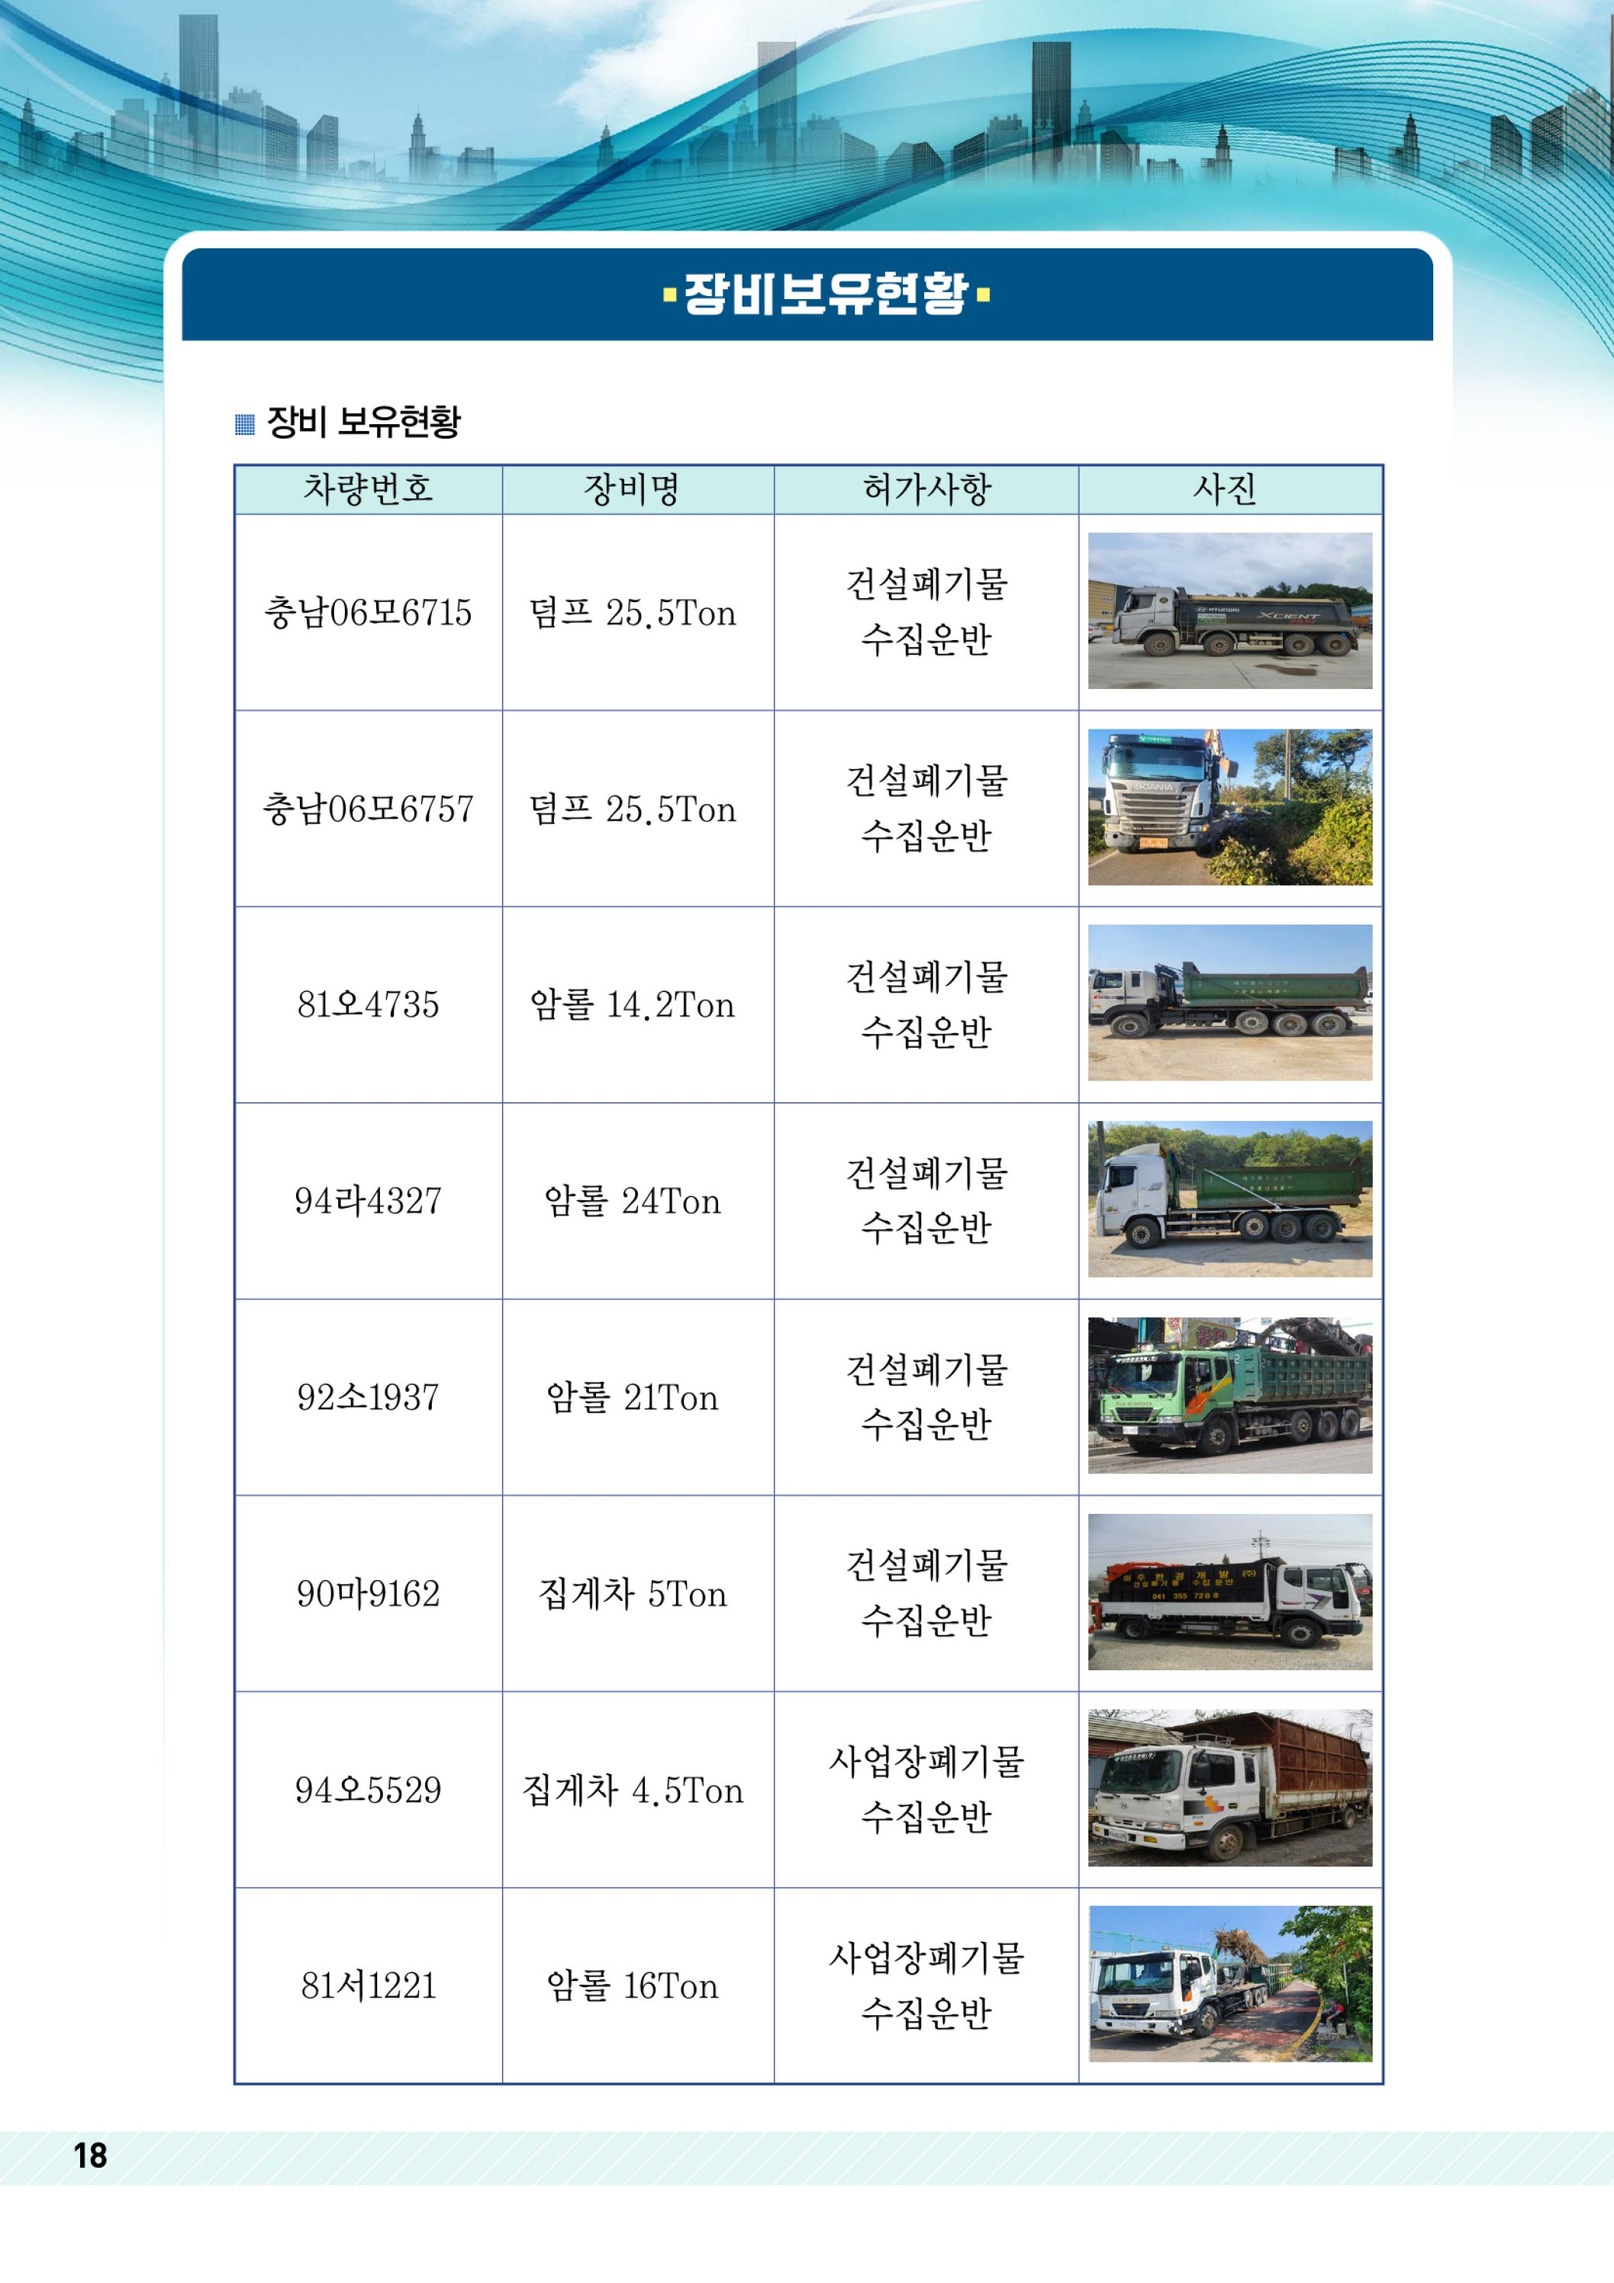
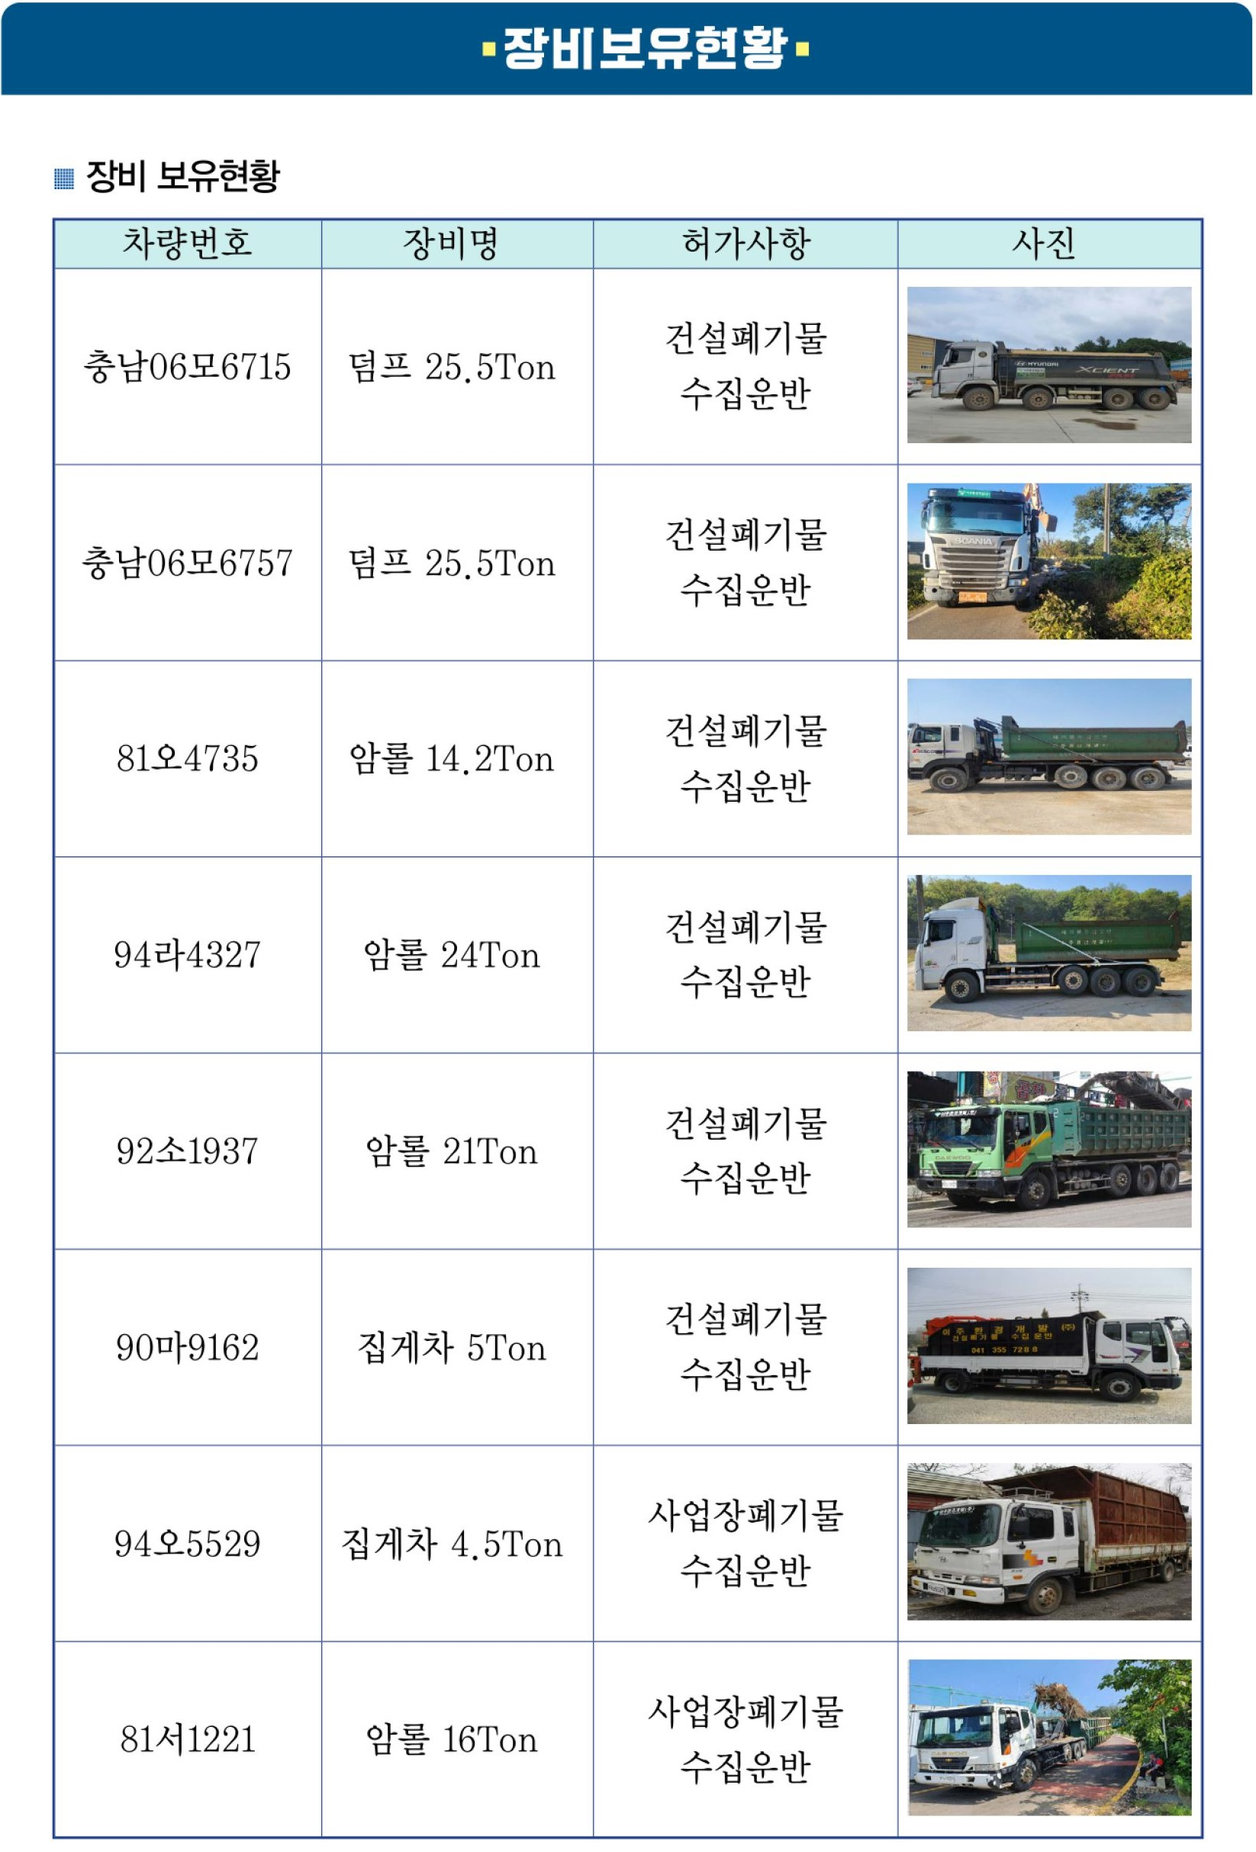
Feat : 장비현황 추가

diff --git a/src/main/resources/templates/equipment.html b/src/main/resources/templates/equipment.html
@@ -1,0 +1,122 @@
+<!DOCTYPE html>
+<html lang="ko" xmlns:th="http://www.thymeleaf.org">
+
+
+<head>
+    <meta charset="utf-8">
+    <meta content="width=device-width, initial-scale=1.0" name="viewport">
+
+    <title>아주환경개발 - 보유 장비 현황</title>
+    <meta content="" name="description">
+    <meta content="" name="keywords">
+
+    <th:block th:replace="~{fragments/importcss :: importCssFragment}"></th:block>
+
+
+</head>
+
+<body>
+
+<!-- ======= Header ======= -->
+<th:block th:replace="~{fragments/header :: headFragment}"></th:block>
+<!-- End Header -->
+
+<main id="main">
+
+    <!-- ======= Breadcrumbs ======= -->
+    <div class="breadcrumbs d-flex align-items-center" style="background-image: url('assets/img/breadcrumbs-bg.jpg');">
+        <div class="container position-relative d-flex flex-column align-items-center" data-aos="fade">
+
+            <h2>보유 장비</h2>
+            <ol>
+                <li><a href="/index">Home</a></li>
+                <li><a href="#">회사소개</a></li>
+                <li>보유 장비</li>
+            </ol>
+
+        </div>
+    </div><!-- End Breadcrumbs -->
+
+    <!-- ======= About Section ======= -->
+    <section id="about" class="about">
+        <div class="container" data-aos="fade-up">
+
+
+            <div style="  display: flex;justify-content: center;align-items: center;">
+
+                <img style="width: 67%" src="assets/img/service/(19-50) 아주환경개발-지명원(2022.11.03작성).jpg">
+
+            </div>
+            <div style="  display: flex;justify-content: center;align-items: center; ">
+                <img style="width: 67%; z-index: -1; margin-top: -151px;" src="assets/img/service/(20-50) 아주환경개발-지명원(2022.11.03작성).jpg">
+            </div>
+
+        </div>
+
+        </div>
+    </section>
+    <!-- End About Section -->
+
+    <!-- ======= Stats Counter Section ======= -->
+    <section id="stats-counter" class="stats-counter section-bg">
+        <div class="container">
+
+            <div class="row gy-4">
+
+                <div class="col-lg-4 col-md-6">
+                    <div class="stats-item d-flex align-items-center w-100 h-100">
+                        <i class="bi bi-journal-richtext color-orange flex-shrink-0"></i>
+                        <div>
+                            <span data-purecounter-start="0" data-purecounter-end="319" data-purecounter-duration="1"
+                                  class="purecounter"></span>
+                            <p>건설 지정 폐기물 처리업</p>
+                        </div>
+                    </div>
+                </div><!-- End Stats Item -->
+
+                <div class="col-lg-4 col-md-6">
+                    <div class="stats-item d-flex align-items-center w-100 h-100">
+                        <i class="bi bi-journal-richtext color-orange flex-shrink-0"></i>
+                        <div>
+                            <span data-purecounter-start="0" data-purecounter-end="248" data-purecounter-duration="1"
+                                  class="purecounter"></span>
+                            <p>비계구조물해체공사업</p>
+                        </div>
+                    </div>
+                </div><!-- End Stats Item -->
+
+                <div class="col-lg-4 col-md-6">
+                    <div class="stats-item d-flex align-items-center w-100 h-100">
+                        <i class="bi bi-people color-pink flex-shrink-0"></i>
+                        <div>
+                            <span data-purecounter-start="0" data-purecounter-end="20" data-purecounter-duration="1"
+                                  class="purecounter"></span>
+                            <p>연혁</p>
+                        </div>
+                    </div>
+                </div><!-- End Stats Item -->
+
+
+            </div>
+
+        </div>
+    </section>
+
+
+</main><!-- End #main -->
+
+<!-- ======= Footer ======= -->
+<th:block th:replace="~{fragments/footer :: footFragment}"></th:block>
+<!-- End Footer -->
+
+
+<a href="#" class="scroll-top d-flex align-items-center justify-content-center"><i class="bi bi-arrow-up-short"></i></a>
+
+<div id="preloader"></div>
+
+<!-- Vendor JS Files -->
+<th:block th:replace="~{fragments/importscript :: importJsFragment}"></th:block>
+
+</body>
+
+</html>

diff --git a/src/main/resources/templates/fragments/header.html b/src/main/resources/templates/fragments/header.html
@@ -23,6 +23,7 @@
                             <li><a href="/greetings">인사말</a></li>
                             <li><a href="/history">연혁</a></li>
                             <li><a href="/organization">조직도</a></li>
+                            <li><a href="/equipment">보유 장비</a></li>
                         </ul>
                     </li>
                     <li><a href="/services">사업분야</a></li>

diff --git a/src/main/java/com/aju/web/persentation/main/MainController.java b/src/main/java/com/aju/web/persentation/main/MainController.java
@@ -71,5 +71,9 @@ public class MainController {
     public String counsel() {
         return "counsel";
     }
+    @GetMapping("/equipment")
+    public String equipment() {
+        return "equipment";
+    }
 
 }
